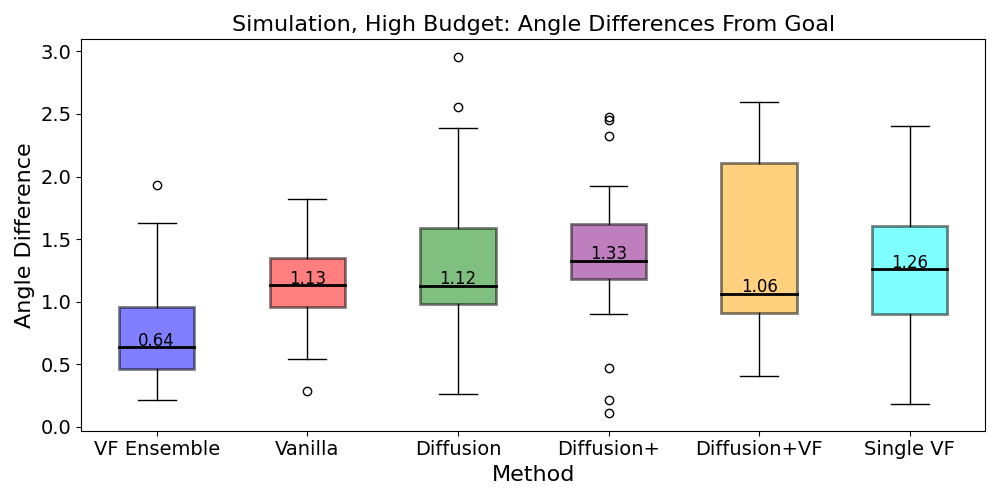
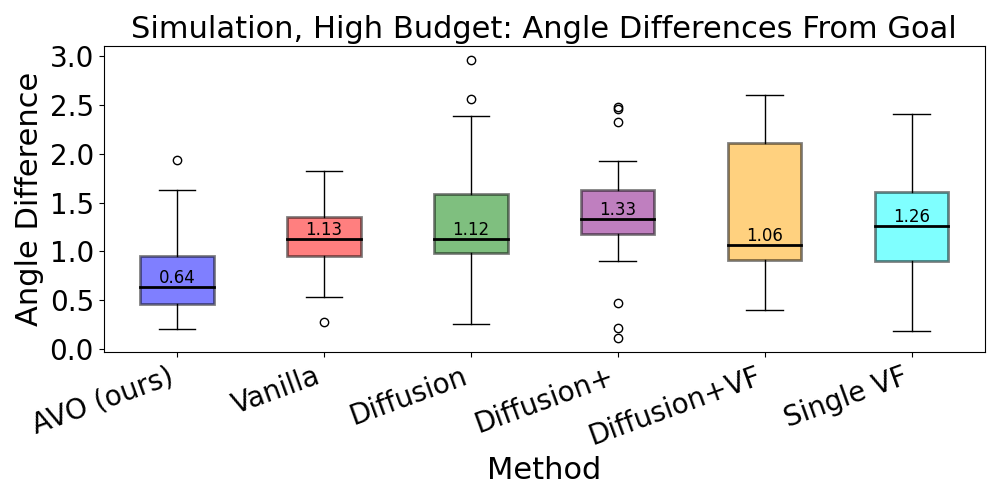
update

diff --git a/_value_function/visualization/vis_method.py b/_value_function/visualization/vis_method.py
@@ -38,17 +38,17 @@ if __name__ == "__main__":
 
     annotate = True
 
-    # experiment_names = ['test_method_test_official_high_iter_all', 
-    #                     "test_method_test_official_high_iter_singlevf",
-    #                     "test_method_test_official_high_iter_diffusion10k_with_contact",
-    #                     "test_method_test_official_high_iter_diffusion10k_no_contact_and_combined",
-    #                     ] 
-    # budget = "High Budget"
+    experiment_names = ['test_method_test_official_high_iter_all', 
+                        "test_method_test_official_high_iter_singlevf",
+                        "test_method_test_official_high_iter_diffusion10k_with_contact",
+                        "test_method_test_official_high_iter_diffusion10k_no_contact_and_combined",
+                        ] 
+    budget = "High Budget"
 
     # experiment_names = ['test_method_test_official_all',
-    #                     'test_method_test_official_low_iter_diffusion10k_no_contact',]
+    #                      'test_method_test_official_low_iter_diffusion10k_no_contact',]
 
-    experiment_names = ['test_method_test_official_low_iter_superlowiter']
+    experiment_names = ['test_method_test_official_low_iter_novfrepeat',]
     budget = "Low Budget"
 
     results = {}
@@ -63,7 +63,7 @@ if __name__ == "__main__":
             if method == "no_vf":
                 method = "Vanilla"
             elif method == "vf":
-                method = "VF Ensemble"
+                method = "AVO (ours)"
             elif method == "diffusion":
                 method = "Diffusion"
             elif method == "diffusion_no_contact_cost":
@@ -82,7 +82,7 @@ if __name__ == "__main__":
                 print(f"Overriding {method}.")
                 
             if budget == "Low Budget":
-                if method != "Vanilla" and method != "VF Ensemble":
+                if method != "Vanilla" and method != "AVO (ours)":
                     continue
 
             results[method] = method_results
@@ -162,7 +162,7 @@ if __name__ == "__main__":
         print(f'{method} mean d2g: {np.mean(data[method]["d2gs"]):.2f} +/- {np.std(data[method]["d2gs"]):.2f}')
 
     colors = ['blue', 'red', 'green', 'purple', 'orange', 'cyan', 'magenta', 'yellow']
-    ts = 16
+    ts = 22
     if False:
         plt.figure(figsize=(10, 5))
         method_offset = 0.15  # spacing offset for each method group
@@ -238,7 +238,7 @@ if __name__ == "__main__":
                 median_val = np.median(data[method]['d2gs'])
                 plt.text(
                     i + 1, 
-                    median_val - 0.02, 
+                    median_val, #- 0.02, 
                     f"{median_val:.2f}", 
                     horizontalalignment='center', 
                     verticalalignment='bottom',
@@ -250,6 +250,7 @@ if __name__ == "__main__":
         plt.ylabel('Angle Difference', fontsize=ts)
         plt.title(f'Simulation, {budget}: Angle Differences From Goal', fontsize=ts)
         plt.xticks(fontsize=ts-2)
+        plt.xticks(rotation=20, ha='right')
         plt.yticks(fontsize=ts-2)
         plt.tight_layout()
         plt.savefig(save_dir / f"{budget} sim.png")

diff --git a/_value_function/screwdriver_problem.py b/_value_function/screwdriver_problem.py
@@ -513,12 +513,12 @@ def regrasp(env, config, chain, state2ee_pos_partial, use_diffusion = False, dif
 
         ####################################################################################################
 
-        actiont0 = time.time()
+        # actiont0 = time.time()
         if config['mode'] == 'hardware':
             env.step(action)
         else:
             env.step(action, path_override = image_path)
-        actiont1 = time.time()
+        # actiont1 = time.time()
         # print(f"Action time: {actiont1 - actiont0}")
         regrasp_problem._preprocess(best_traj.unsqueeze(0))
 
@@ -691,7 +691,7 @@ def solve_turn(env, gym, viewer, params, initial_pose, state2ee_pos_partial, use
         start = state['q'].reshape(4 * num_fingers + 4).to(device=params['device'])
 
         actual_trajectory.append(state['q'][:, :4 * num_fingers + obj_dof].squeeze(0).clone())
-        start_time = time.time()
+        # start_time = time.time()
 
         noise = (torch.rand(3, device=params['device']) - 0.5) * perception_noise * 2
         noisy_start = start.clone()
@@ -846,8 +846,6 @@ def get_diffusion(params, path = None):
     # print('Loaded trajectory sampler')
 
     return trajectory_sampler
-    
-
 
 class emailer():
     def __init__(self):

diff --git a/_value_function/visualization/vis_hardware.py b/_value_function/visualization/vis_hardware.py
@@ -29,9 +29,9 @@ for method_nick in methods:
     if method_nick == "novf":
         method = "Vanilla"
     elif method_nick == "vf":
-        method = "VF Ensemble"
+        method = "AVO High Budget (ours)"
     elif method_nick == "low2":
-        method = "VF Low Budget"
+        method = "AVO Low Budget (ours)"
     else:
         print(f"{method} is not a valid method")
         exit()
@@ -80,7 +80,7 @@ for method_nick in methods:
     print(f"{method} average yaw delta: {np.mean(data[method]['yaw_deltas'])}")
 
 colors = ['blue', 'red', 'green', 'purple', 'orange', 'cyan', 'magenta', 'yellow']
-ts = 16
+ts = 22
 # ----  Boxplot ----
 # Create a new figure for the boxplot
 plt.figure(figsize=(10, 5))

diff --git a/_value_function/test/test_method.py b/_value_function/test/test_method.py
@@ -156,9 +156,9 @@ if __name__ == '__main__':
     screwdriver_noise_mag = 0.015
     finger_noise_mag = 0.05
 
-    regrasp_iters = 80
-    turn_iters = 100
-    online_iters = 25
+    regrasp_iters = 40
+    turn_iters = 50
+    online_iters = 12
 
     vf_weight_rg = 5.0
     other_weight_rg = 1.9
